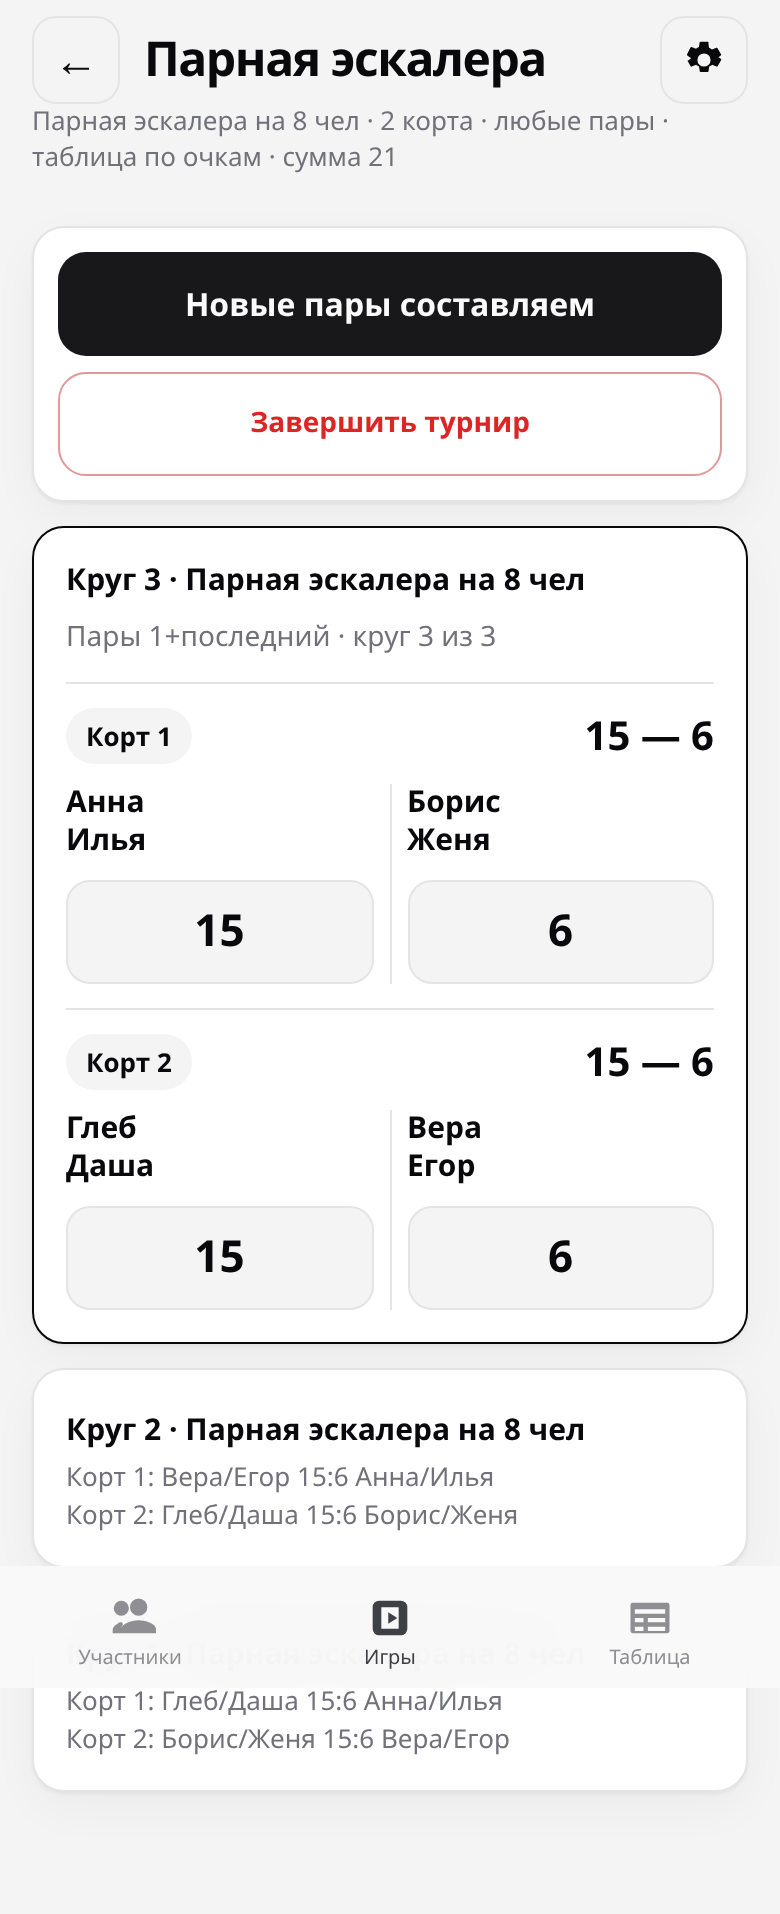
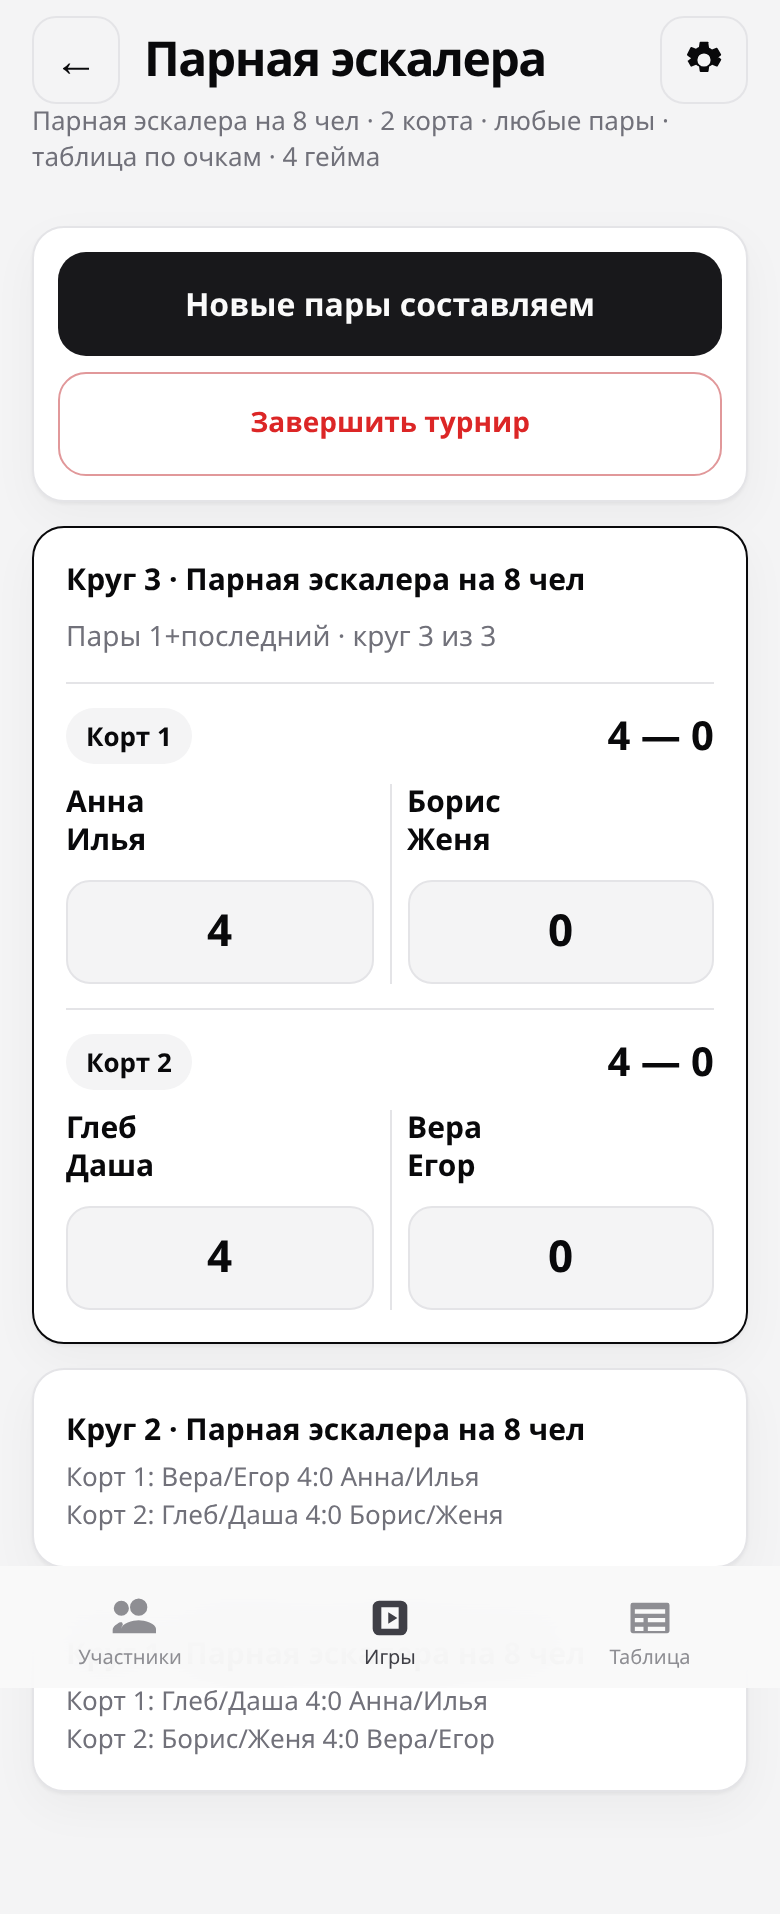
feat(tracker): pair-escalera games 4/6/8/10/12 (0.7.19)
Replace Lunda points scoring in pair-escalera with a games total:
chips 4/6/8/10/12 (default 4), scores sum to the limit, and an optional
deciding game at half-half (6-6 becomes 7-6 for 12). Old total-points
saves still load.

diff --git a/tracker/js/scoring.js b/tracker/js/scoring.js
@@ -2,6 +2,7 @@
 
 export const TENNIS_LABELS = ['0', '15', '30', '40'];
 export const POINTS_PRESETS = [15, 17, 19, 21];
+export const GAMES_TOTAL_PRESETS = [4, 6, 8, 10, 12];
 
 export function pointsTarget(settings, roundKind) {
   if (roundKind === 'qualifying') return settings.qualifyingPoints;
@@ -39,6 +40,7 @@ export function scoringSnapshot(settings, { forNewRound = false } = {}) {
     setScore: gamesMode && (forNewRound || settings.setScore === true),
     gamesToWin: gamesToWin(settings),
     gamesPerPairing: settings.gamesPerPairing,
+    gamesTotal: usesGamesTotal(settings),
     decidingGame: Boolean(settings.decidingGame),
     pointsPreset: settings.pointsPreset,
     customPoints: settings.customPoints,
@@ -68,6 +70,16 @@ export function usesTotalPoints(settings, roundKind) {
   return roundKind !== 'qualifying' && settings?.scoringMode === 'total';
 }
 
+/**
+ * Парная эскалера: ровно N геймов (сумма счёта = N), не «до N».
+ * Старые сохранения с scoringMode total продолжают считать очки.
+ */
+export function usesGamesTotal(settings, roundKind) {
+  if (roundKind === 'qualifying') return false;
+  if (settings?.scoringMode !== 'games') return false;
+  return settings.gamesTotal === true || settings.tournamentFormat === 'pair-escalera';
+}
+
 /** Игра до фиксированной суммы: второе поле = цель − введённое. При «с разницей в 2» не заполняем. */
 export function autoFillOther(entered, target, winByTwo) {
   if (winByTwo) return null;
@@ -93,7 +105,24 @@ export function autoFillGames(entered, n, decidingGame) {
   return null;
 }
 
+/**
+ * Сумма геймов = N. Как total: другая сторона = N − введённое.
+ * Решающий: половина+1 → половина (6-6 при N=12 становится 7-6).
+ */
+export function autoFillGamesTotal(entered, n, decidingGame) {
+  if (entered === '' || entered == null) return null;
+  const v = Number(entered);
+  const N = Math.max(2, Number(n) || 4);
+  if (!Number.isFinite(v) || v < 0) return null;
+  const half = N / 2;
+  if (decidingGame && v === half + 1) return half;
+  return Math.max(0, N - Math.max(0, Math.round(v)));
+}
+
 export function autoFillScore(entered, settings, roundKind) {
+  if (usesGamesTotal(settings, roundKind)) {
+    return autoFillGamesTotal(entered, gamesToWin(settings), settings.decidingGame);
+  }
   if (settings.scoringMode === 'games' && settings.setScore && roundKind !== 'qualifying') {
     return autoFillGames(entered, gamesToWin(settings), settings.decidingGame);
   }
@@ -131,6 +160,7 @@ export function applyScoreWithSync(game, side, parsed, settings, roundKind, { fr
     if (other != null) {
       next[otherSide] = other;
     } else if (
+      !usesGamesTotal(settings, roundKind) &&
       settings.scoringMode === 'games' &&
       settings.setScore &&
       roundKind !== 'qualifying' &&
@@ -147,6 +177,29 @@ export function applyScoreWithSync(game, side, parsed, settings, roundKind, { fr
     }
   }
   return next;
+}
+
+/**
+ * Валидный счёт суммы геймов.
+ * Без решающего: a+b = N (включая ничью N/2:N/2).
+ * С решающим: a+b = N и не ничья, либо N/2+1 : N/2 (сумма N+1).
+ */
+export function isValidGamesTotalScore(a, b, settings) {
+  if (!Number.isFinite(Number(a)) || !Number.isFinite(Number(b))) return false;
+  const left = Number(a);
+  const right = Number(b);
+  if (left < 0 || right < 0) return false;
+  const N = gamesToWin(settings);
+  const sum = left + right;
+  const half = N / 2;
+  if (settings.decidingGame) {
+    if (sum === N + 1) {
+      return Math.max(left, right) === half + 1 && Math.min(left, right) === half;
+    }
+    if (sum === N) return left !== right;
+    return false;
+  }
+  return sum === N;
 }
 
 /** Валидный сет: победитель ровно N, проигравший ≤ N-1 (решающий) или ≤ N-2. */
@@ -200,6 +253,7 @@ export function gamesSum(games) {
  */
 export function neededGames(settings, roundKind, games) {
   if (roundKind === 'qualifying') return 1;
+  if (usesGamesTotal(settings, roundKind)) return 1;
   if (settings.scoringMode === 'games' && !settings.setScore) {
     const base = Math.max(1, Number(settings.gamesPerPairing) || 1);
     if (base > 1) {
@@ -225,6 +279,9 @@ export function matchComplete(match, settings, roundKind) {
   const n = neededGames(settings, kind, match.games);
   const games = (match.games || []).slice(0, n);
   if (games.length < n || !games.every(isGameComplete)) return false;
+  if (usesGamesTotal(settings, kind)) {
+    return games.every((g) => isValidGamesTotalScore(g.a, g.b, settings));
+  }
   if (settings.scoringMode === 'games' && settings.setScore && kind !== 'qualifying') {
     return games.every((g) => isValidSetScore(g.a, g.b, settings));
   }

diff --git a/tracker/js/render.js b/tracker/js/render.js
@@ -1,12 +1,14 @@
 import {
   gamesSum,
   gamesToWin,
+  GAMES_TOTAL_PRESETS,
   isGameComplete,
   matchComplete,
   neededGames,
   POINTS_PRESETS,
   scoreWheelMax,
   settingsForRound,
+  usesGamesTotal,
 } from './scoring.js';
 import { computeStandings, sortStandings, standingMarks, standingPlace } from './standings.js';
 import { autoCourts, compactMatchLine, compactSittingLine, formatMatchLine, genderCounts } from './pairing.js';
@@ -39,6 +41,15 @@ function ruGames(n) {
   return 'игр';
 }
 
+function ruGeyms(n) {
+  const m = Math.abs(Number(n)) % 100;
+  const d = m % 10;
+  if (m > 10 && m < 20) return 'геймов';
+  if (d === 1) return 'гейм';
+  if (d >= 2 && d <= 4) return 'гейма';
+  return 'геймов';
+}
+
 function ruCourts(n) {
   const v = Number(n);
   if (v === 1) return '1 корт';
@@ -56,6 +67,10 @@ export function canPlayMixed(players) {
 }
 
 export function scoringSummary(s) {
+  if (usesGamesTotal(s)) {
+    const n = gamesToWin(s);
+    return `${n} ${ruGeyms(n)}${s.decidingGame ? ' + решающий' : ''}`;
+  }
   if (s.scoringMode === 'games') {
     const n = gamesToWin(s);
     if (s.setScore || s.gamesToWin) {
@@ -328,8 +343,7 @@ function renderFormatSettings(s, { draft = false, players = [], hideQualifying =
       ${renderMixed(s, action, okMixed, players)}
       <p class="hint">Ровно 8 игроков, 2 корта. Три круга — каждая пара играет с каждой, затем новые пары по таблице.</p>
       <h3>Счёт матча</h3>
-      <p class="hint">Как в Lunda: игра до суммы очков, без разницы в 2.</p>
-      ${renderScoringFields(s, { lunda: true, draft })}`;
+      ${renderPairEscaleraGamesFields(s, { draft })}`;
   }
   if (format === 'free') {
     return `
@@ -478,6 +492,31 @@ function renderPointsFields(s, { draft = false } = {}) {
       <input type="checkbox" data-action="${toggle}" data-key="winByTwo" ${s.winByTwo ? 'checked' : ''} />
       <span>Победа с разницей в 2</span>
     </label>`;
+}
+
+function renderPairEscaleraGamesFields(s, { draft = false } = {}) {
+  const action = draft ? 'draft-setting-val' : 'setting-val';
+  const toggle = draft ? 'draft-toggle' : 'toggle';
+  const gamesOn = s.scoringMode === 'games';
+  const n = gamesOn ? gamesToWin(s) : 4;
+  const half = n / 2;
+  return `
+    <p class="field-label">Геймов в матче</p>
+    <div class="seg wrap">
+      ${GAMES_TOTAL_PRESETS.map(
+        (v) =>
+          `<button type="button" class="seg-btn ${gamesOn && n === v ? 'is-on' : ''}" data-action="${action}" data-key="gamesToWin" data-value="${v}">${v}</button>`,
+      ).join('')}
+    </div>
+    <label class="toggle">
+      <input type="checkbox" data-action="${toggle}" data-key="decidingGame" ${s.decidingGame && gamesOn ? 'checked' : ''} />
+      <span>Плюс один гейм при равенстве</span>
+    </label>
+    <p class="hint">${
+      s.decidingGame && gamesOn
+        ? `Счёт в сумме ${n}. При ${half}:${half} играется ещё один гейм, итог ${half + 1}:${half}.`
+        : `Счёт в сумме ${n}. При ${half}:${half} — ничья.`
+    }</p>`;
 }
 
 function renderGamesFields(s, { draft = false } = {}) {

diff --git a/tracker/js/app.js b/tracker/js/app.js
@@ -235,11 +235,22 @@ const SCORING_KEYS = new Set([
   'gamesPerPairing',
 ]);
 
+function applyPairEscaleraGames(settings, { key } = {}) {
+  if ((settings.tournamentFormat || '') !== 'pair-escalera') return;
+  if (key && key !== 'gamesToWin' && key !== 'decidingGame') return;
+  const wasGames = settings.scoringMode === 'games' && settings.gamesTotal;
+  settings.scoringMode = 'games';
+  settings.setScore = true;
+  settings.gamesTotal = true;
+  if (!wasGames && key === 'gamesToWin') settings.decidingGame = false;
+}
+
 function patchLiveSettings(t, patch) {
   const keys = Object.keys(patch);
   if (keys.some((key) => SCORING_KEYS.has(key))) freezeRoundScoring(t.rounds, t.settings);
   for (const [key, value] of Object.entries(patch)) {
     patchSettings(t.settings, key, key === 'gamesToWin' ? Number(value) : value);
+    applyPairEscaleraGames(t.settings, { key });
   }
   if (t.settings.scoringMode === 'games') t.settings.setScore = true;
   if (t.settings.scoringMode === 'total') t.settings.winByTwo = false;
@@ -973,6 +984,7 @@ function onClick(event) {
     const key = btn.dataset.key;
     const value = key === 'gamesToWin' ? Number(btn.dataset.value) : btn.dataset.value;
     patchSettings(store.ui.draft.settings, key, value);
+    applyPairEscaleraGames(store.ui.draft.settings, { key });
     if (store.ui.draft.settings.scoringMode === 'games') store.ui.draft.settings.setScore = true;
     paint();
     return;
@@ -1013,6 +1025,7 @@ function onChange(event) {
   }
   if (action === 'draft-toggle' && el instanceof HTMLInputElement && store.ui.draft) {
     store.ui.draft.settings[el.dataset.key] = el.checked;
+    applyPairEscaleraGames(store.ui.draft.settings, { key: el.dataset.key });
     paint();
     return;
   }

diff --git a/tracker/index.html b/tracker/index.html
@@ -26,12 +26,12 @@
     <link rel="manifest" href="./manifest.webmanifest" />
     <link rel="apple-touch-icon" href="./icons/apple-touch-icon.png" sizes="180x180" />
     <link rel="icon" type="image/png" href="./icons/icon-192.png" sizes="192x192" />
-    <link rel="stylesheet" href="./styles.css?v=0.7.18" />
+    <link rel="stylesheet" href="./styles.css?v=0.7.19" />
   </head>
   <body>
     <div id="app">Загрузка…</div>
     <input id="import-file" type="file" accept="application/json,.json" hidden />
-    <script type="module" src="./js/app.js?v=0.7.18"></script>
+    <script type="module" src="./js/app.js?v=0.7.19"></script>
     <script>
       if ('serviceWorker' in navigator) {
         navigator.serviceWorker.register('./sw.js', { scope: './' }).catch(function () {});

diff --git a/tracker/js/state.js b/tracker/js/state.js
@@ -11,6 +11,7 @@ export function defaultSettings() {
     winByTwo: true,
     gamesPerPairing: 1,
     gamesToWin: 6,
+    gamesTotal: false,
     decidingGame: true,
     qualifyingEnabled: false,
     qualifyingPoints: 15,
@@ -42,6 +43,13 @@ export function defaultSettingsFor(format) {
   }
   if (format === 'mexicano') settings.mexicanoPairing = '1-4';
   if (format === 'king') settings.kingOfTheCourt = true;
+  if (format === 'pair-escalera') {
+    settings.scoringMode = 'games';
+    settings.setScore = true;
+    settings.gamesTotal = true;
+    settings.gamesToWin = 4;
+    settings.decidingGame = false;
+  }
   return settings;
 }
 

diff --git a/tracker/sw.js b/tracker/sw.js
@@ -1,5 +1,5 @@
 /* Версия кэша = cache-bust трекера. При релизе подними вместе с ?v= в index.html. */
-const VERSION = '0.7.18';
+const VERSION = '0.7.19';
 const CACHE = `padel-tracker-v${VERSION}`;
 const ASSETS = [
   './',

diff --git a/CHANGELOG.md b/CHANGELOG.md
@@ -1,5 +1,11 @@
 # Changelog
 
+## 0.7.19 — парная эскалера: геймы 4/6/8/10/12
+
+- В «Парной эскалере на 8 чел» счёт матча — геймы, не очки Lunda. Чипы **4, 6, 8, 10, 12**, по умолчанию 4.
+- Счёт в сумме равен лимиту (4 → 4-0 / 3-1 / 2-2). Чекбокс «Плюс один гейм при равенстве»: при ничьей в половине играется ещё один гейм (6-6 → 7-6 при лимите 12).
+- Старые турниры с суммой очков по-прежнему открываются.
+
 ## 0.7.18 — медали в колонке места, шире имена
 
 - В таблице и в итоге места 1–3 — медали 🥇🥈🥉 (без цифры рядом), с 4-го — номера. Дубль медали у имени убран.
